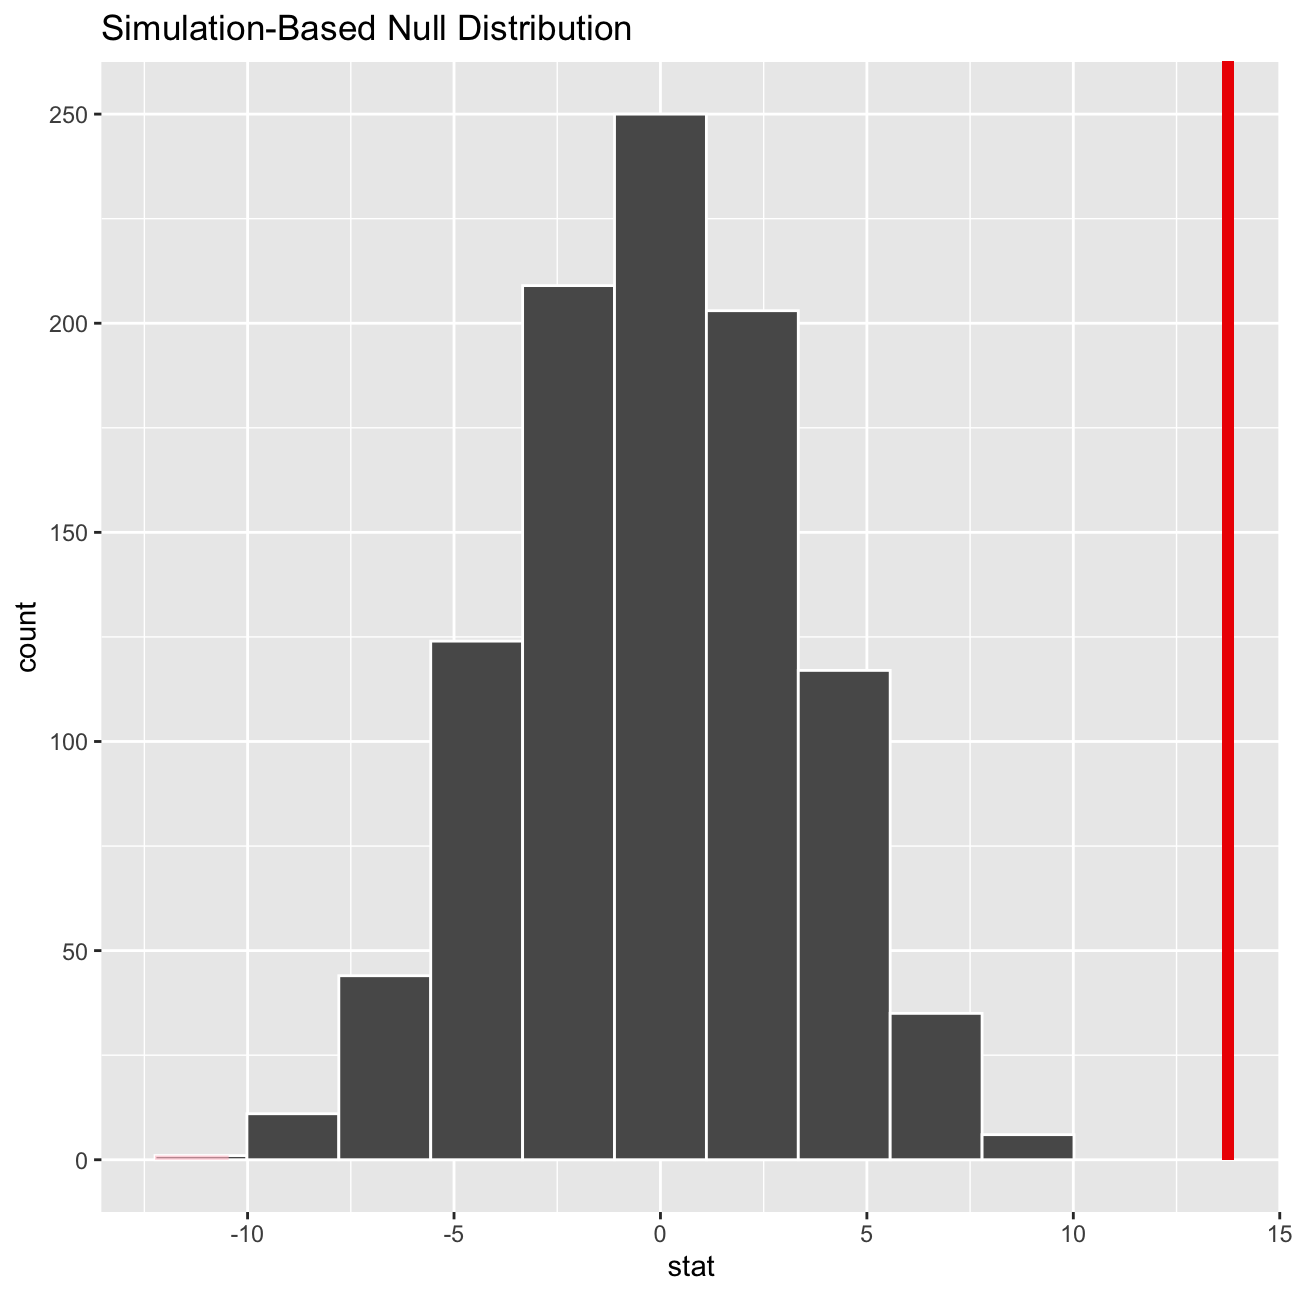
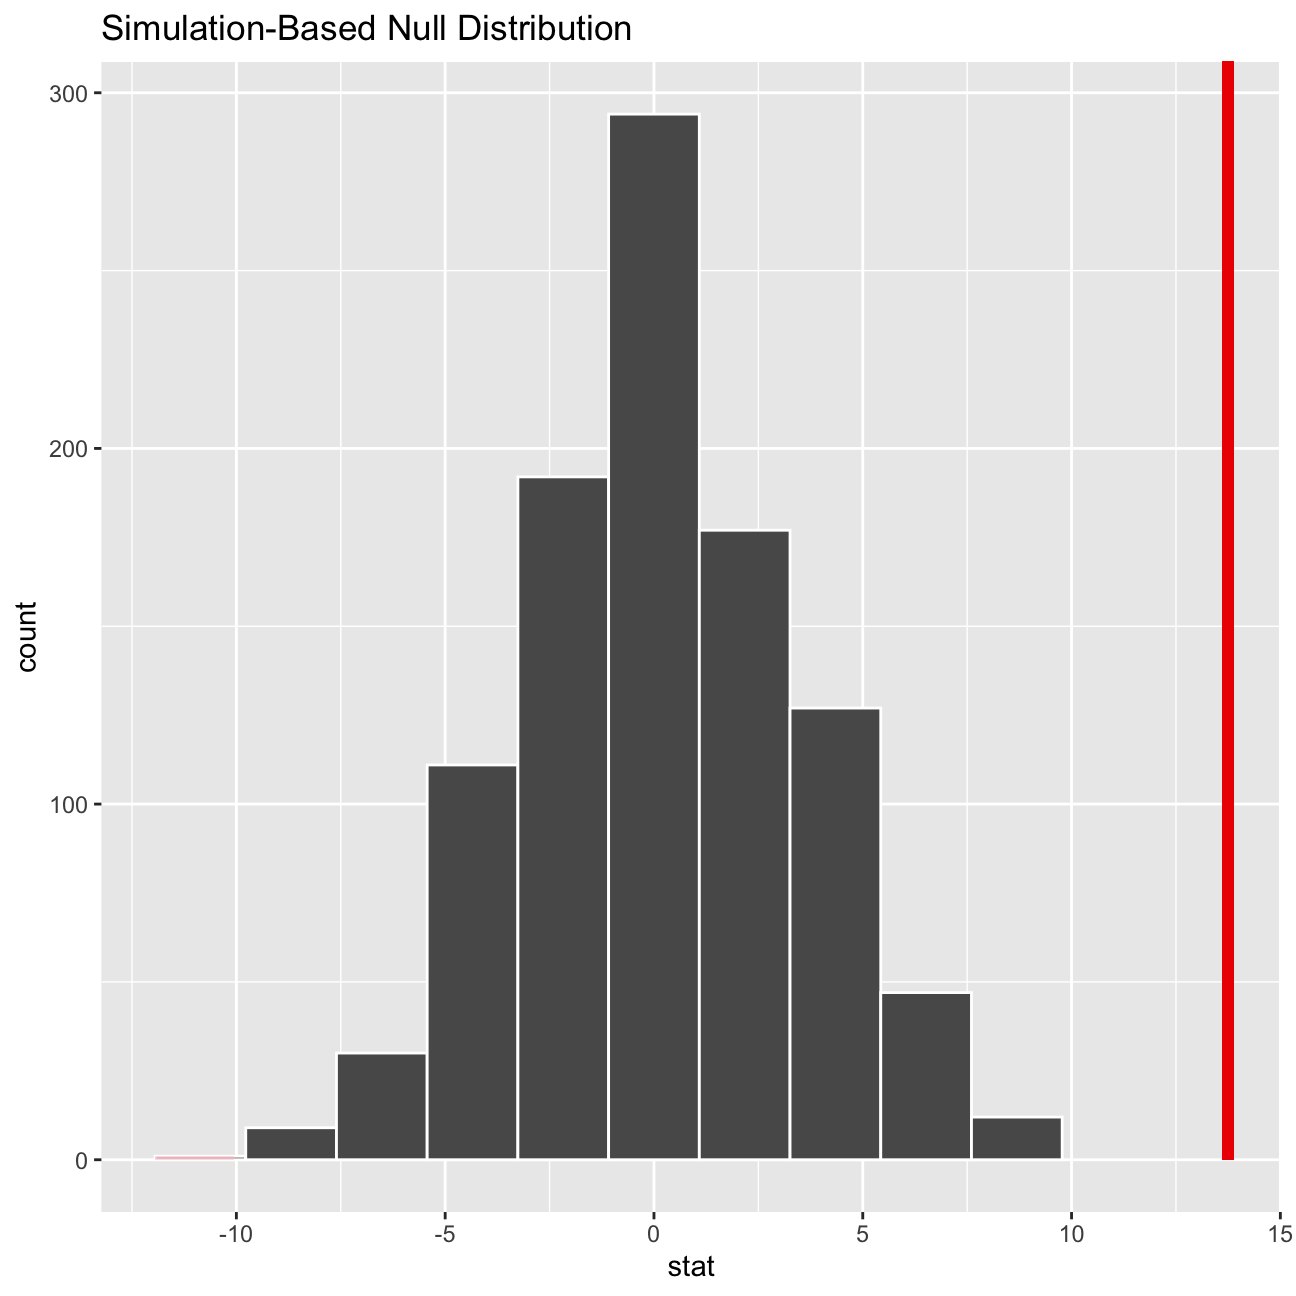
jk

diff --git a/public/projects/project4/index.html b/public/projects/project4/index.html
@@ -81,8 +81,8 @@
                             
 
 
-<div id="omega-group---pay-discrimination" class="section level1">
-<h1>Omega Group - Pay Discrimination</h1>
+<p><img src="https://cdn.lawyer-monthly.com/Lawyer-Monthly/wp-content/uploads/2017/11/Equality-Men-Earned-30-More-Than-Women-Last-Year.jpg" />
+# Omega Group - Pay Discrimination</p>
 <p>At the last board meeting of Omega Group Plc., the headquarters of a large multinational company, the issue was raised that women were being discriminated in the company, in the sense that the salaries were not the same for male and female executives. A quick analysis of a sample of 50 employees (of which 24 men and 26 women) revealed that the average salary for men was about 8,700 higher than for women. This seemed like a considerable difference, so it was decided that a further analysis of the company salaries was warranted.</p>
 <div id="loading-the-data" class="section level2">
 <h2>Loading the data</h2>
@@ -235,18 +235,18 @@ t_test_tidy</code></pre>
 
 null_distribution</code></pre>
 <pre><code>## # A tibble: 1,000 x 2
-##    replicate   stat
-##        &lt;int&gt;  &lt;dbl&gt;
-##  1         1  -858.
-##  2         2  -824.
-##  3         3  -155.
-##  4         4  2440.
-##  5         5   911.
-##  6         6 -4395.
-##  7         7  -659.
-##  8         8 -5353.
-##  9         9   704.
-## 10        10  -634.
+##    replicate    stat
+##        &lt;int&gt;   &lt;dbl&gt;
+##  1         1 -1502. 
+##  2         2  -634. 
+##  3         3  3316. 
+##  4         4 -1866. 
+##  5         5  -114. 
+##  6         6  2828. 
+##  7         7 -1502. 
+##  8         8   242. 
+##  9         9 -1130. 
+## 10        10    51.6
 ## # … with 990 more rows</code></pre>
 <pre class="r"><code># visualize the p-value 
 
@@ -411,18 +411,18 @@ t_test_exp_tidy</code></pre>
 
 null_distribution</code></pre>
 <pre><code>## # A tibble: 1,000 x 2
-##    replicate   stat
-##        &lt;int&gt;  &lt;dbl&gt;
-##  1         1  -858.
-##  2         2  -824.
-##  3         3  -155.
-##  4         4  2440.
-##  5         5   911.
-##  6         6 -4395.
-##  7         7  -659.
-##  8         8 -5353.
-##  9         9   704.
-## 10        10  -634.
+##    replicate    stat
+##        &lt;int&gt;   &lt;dbl&gt;
+##  1         1 -1502. 
+##  2         2  -634. 
+##  3         3  3316. 
+##  4         4 -1866. 
+##  5         5  -114. 
+##  6         6  2828. 
+##  7         7 -1502. 
+##  8         8   242. 
+##  9         9 -1130. 
+## 10        10    51.6
 ## # … with 990 more rows</code></pre>
 <pre class="r"><code># Visualize p value 
 
@@ -483,7 +483,6 @@ ggplot(omega, aes(x = experience, y=salary,color=gender))+
   
   NULL</code></pre>
 <p><img src="/projects/project4_files/figure-html/salary_exp_scatter-1.png" width="648" style="display: block; margin: auto;" /></p>
-</div>
 </div>
 <div id="uk-gender-pay-gap-2017" class="section level1">
 <h1>UK Gender Pay Gap 2017</h1>

diff --git a/public/projects/project3/index.html b/public/projects/project3/index.html
@@ -81,6 +81,7 @@
                             
 
 
+<p><img src="https://miro.medium.com/max/6676/1*x_63htcQx3QGZhj2uWZZaA.png" /></p>
 <div id="first-lets-look-at-the-data" class="section level1">
 <h1>First, lets look at the data</h1>
 <pre class="r"><code>skim(world_happiness_report_2019)</code></pre>

diff --git a/content/projects/project3.html b/content/projects/project3.html
@@ -5,6 +5,7 @@ output: html_document
 
 
 
+<p><img src="https://miro.medium.com/max/6676/1*x_63htcQx3QGZhj2uWZZaA.png" /></p>
 <div id="first-lets-look-at-the-data" class="section level1">
 <h1>First, lets look at the data</h1>
 <pre class="r"><code>skim(world_happiness_report_2019)</code></pre>
